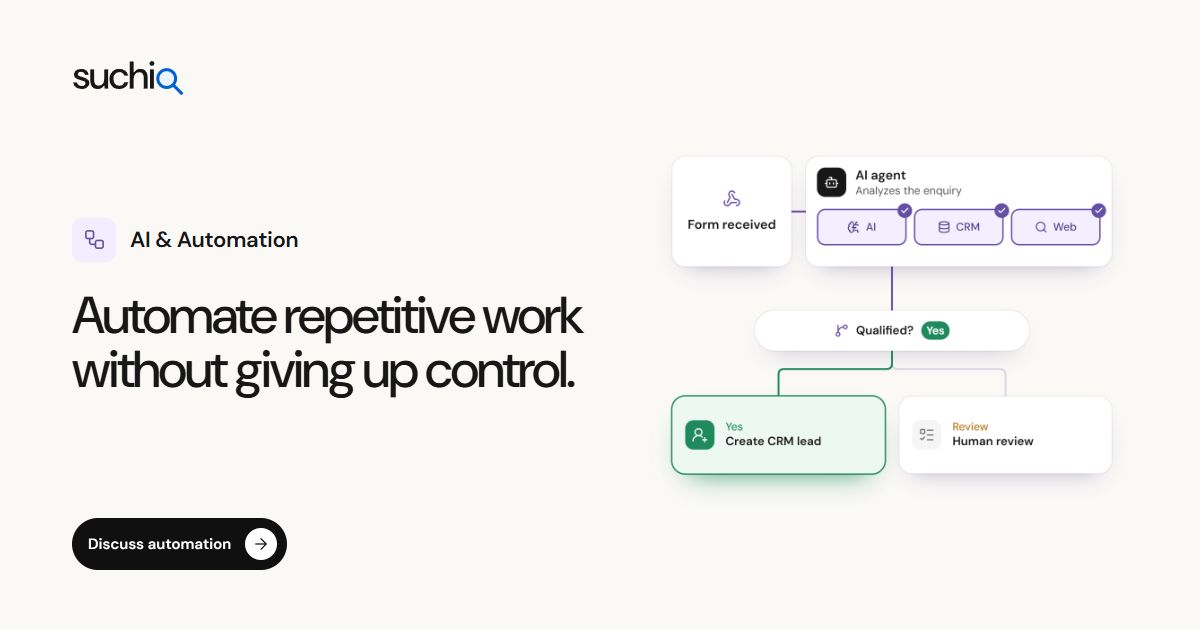
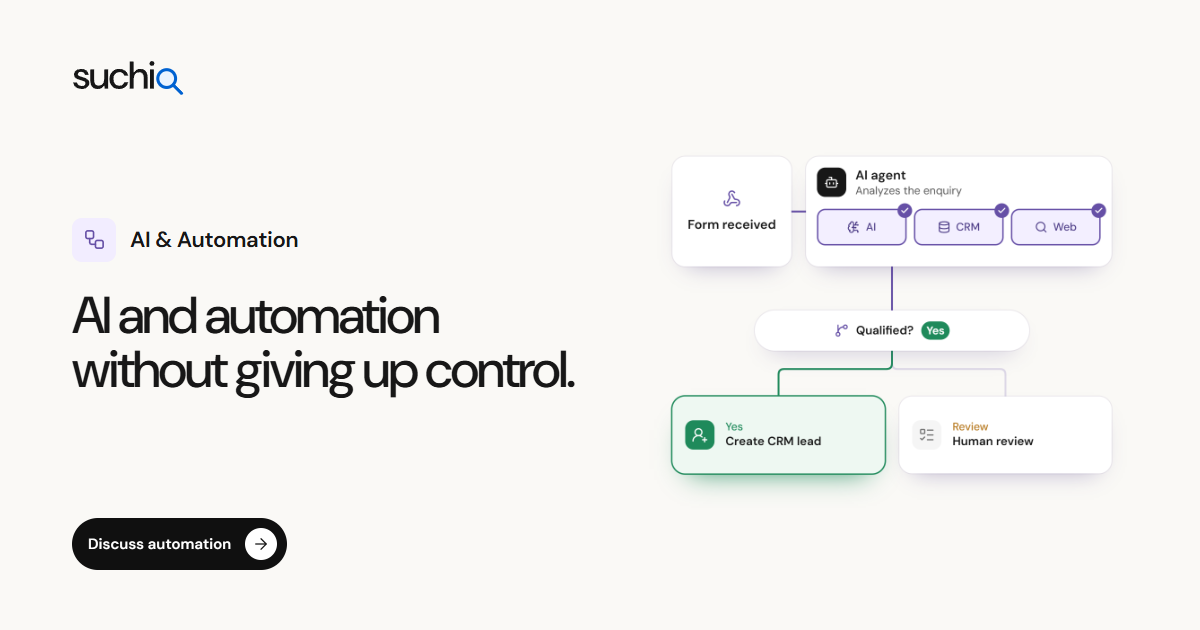
Put the search terms into service titles and headings
Titles now lead with the service and Frankfurt, which people search for far
more than Rhein-Main, without claiming an office there. The SEO, websites and
automation H1s name their service, and the service social cards follow them.

Changed region(s): [[0.0925, 0.4524, 0.4933, 0.5429]]

diff --git a/src/i18n/de/services.ts b/src/i18n/de/services.ts
@@ -17,10 +17,10 @@ const services: ServicesCopy = {
       ],
       cta: "Mehr zu Websites & Apps",
       page: {
-        metaTitle: "Webdesign Rhein-Main: Website erstellen lassen",
+        metaTitle: "Webdesign Frankfurt: Website erstellen lassen",
         metaDescription:
           "Website erstellen lassen in Hattersheim, Frankfurt und dem Rhein-Main-Gebiet. Suchio plant, gestaltet und entwickelt schnelle Websites, Onlineshops und Apps.",
-        title: "Websites, die schnell laden, Anfragen bringen und die du selbst pflegen kannst.",
+        title: "Website erstellen lassen, die schnell lädt und Anfragen bringt.",
         intro:
           "Wir erstellen Websites, Onlineshops und Apps für Betriebe im Rhein-Main-Gebiet und in ganz Deutschland. Vom ersten Entwurf bis zum Launch arbeitest du mit denselben Leuten.",
         outcomesHeading: "Was die fertige Website leisten muss",
@@ -179,10 +179,10 @@ const services: ServicesCopy = {
       ],
       cta: "Mehr zu SEO & KI-Sichtbarkeit",
       page: {
-        metaTitle: "SEO im Rhein-Main-Gebiet: Google & KI-Sichtbarkeit",
+        metaTitle: "SEO Frankfurt: Google- & KI-Sichtbarkeit",
         metaDescription:
           "SEO für Betriebe in Frankfurt und dem Rhein-Main-Gebiet: technisches SEO, Google-Unternehmensprofil, Inhalte und Sichtbarkeit in ChatGPT und KI-Antworten.",
-        title: "Bei Google und in KI-Antworten gefunden werden.",
+        title: "SEO, damit du bei Google und in KI-Antworten gefunden wirst.",
         intro:
           "Wir beheben technische Fehler, schreiben Inhalte zu echten Suchanfragen und pflegen dein Google-Unternehmensprofil. So finden dich Kunden in der normalen Suche, in Google Maps und in KI-Antworten.",
         outcomesHeading: "Was bessere Sichtbarkeit braucht",
@@ -347,7 +347,7 @@ const services: ServicesCopy = {
       ],
       cta: "Mehr zu Werbekampagnen",
       page: {
-        metaTitle: "Google Ads & Social Ads Betreuung im Rhein-Main-Gebiet",
+        metaTitle: "Google Ads & Social Ads für Frankfurt & Rhein-Main",
         metaDescription:
           "Google Ads und Social Ads für Betriebe im Rhein-Main-Gebiet: Kampagnenaufbau, Anzeigen, Landingpages und Tracking, damit aus Klicks Anfragen werden.",
         title: "Google Ads und Social Ads vom Klick bis zur Anfrage.",
@@ -517,10 +517,10 @@ const services: ServicesCopy = {
       ],
       cta: "Mehr zu KI & Automatisierung",
       page: {
-        metaTitle: "KI & Automatisierung für Betriebe und KMU",
+        metaTitle: "KI & Automatisierung für KMU im Raum Frankfurt",
         metaDescription:
           "KI und Automatisierung für Betriebe im Rhein-Main-Gebiet: Anfragen, E-Mails und Dokumente automatisch verarbeiten, Programme verbinden und Handarbeit sparen.",
-        title: "Wiederkehrende Arbeit automatisieren, ohne die Kontrolle abzugeben.",
+        title: "KI und Automatisierung, ohne die Kontrolle abzugeben.",
         intro:
           "Wir verbinden deine Programme, automatisieren wiederkehrende Aufgaben und setzen KI dort ein, wo sie deinem Team Arbeit abnimmt, etwa bei Anfragen, E-Mails und Dokumenten.",
         outcomesHeading: "Erst der Ablauf, dann das Werkzeug",

diff --git a/src/i18n/fr/services.ts b/src/i18n/fr/services.ts
@@ -20,7 +20,7 @@ const services: ServicesCopy = {
         metaTitle: "Création de site web, région de Francfort",
         metaDescription:
           "Création de sites web à Hattersheim, Francfort et en Rhin-Main. Suchio conçoit des sites rapides, des boutiques en ligne et des applications.",
-        title: "Des sites qui se chargent vite, apportent des demandes et que vous modifiez vous-même.",
+        title: "Création de site web : un site rapide qui apporte des demandes.",
         intro:
           "Nous créons des sites web, des boutiques en ligne et des applications pour les entreprises de la région Rhin-Main et de toute l’Allemagne. Du premier croquis au lancement, vous travaillez avec les mêmes personnes.",
         outcomesHeading: "Ce que le site final doit accomplir",
@@ -178,10 +178,10 @@ const services: ServicesCopy = {
       ],
       cta: "En savoir plus sur le SEO",
       page: {
-        metaTitle: "SEO région de Francfort : Google & visibilité IA",
+        metaTitle: "Référencement SEO près de Francfort",
         metaDescription:
           "SEO pour les entreprises de la région de Francfort : SEO technique, fiche Google, contenus et visibilité dans ChatGPT et les réponses IA.",
-        title: "Être trouvé sur Google et dans les réponses IA.",
+        title: "Le SEO pour être trouvé sur Google et dans les réponses IA.",
         intro:
           "Nous corrigeons les problèmes techniques, rédigeons des contenus pour de vraies recherches et entretenons votre fiche d’établissement Google. Vos clients vous trouvent ainsi dans la recherche classique, dans Google Maps et dans les réponses IA.",
         outcomesHeading: "Ce qu’exige une meilleure visibilité",
@@ -348,7 +348,7 @@ const services: ServicesCopy = {
       ],
       cta: "En savoir plus sur les campagnes",
       page: {
-        metaTitle: "Google Ads & réseaux sociaux, région de Francfort",
+        metaTitle: "Google Ads & publicité sociale, région de Francfort",
         metaDescription:
           "Google Ads et réseaux sociaux pour les entreprises de la région Rhin-Main : campagnes, annonces, pages de destination et suivi des demandes.",
         title: "Google Ads et réseaux sociaux, du clic à la demande.",
@@ -517,10 +517,10 @@ const services: ServicesCopy = {
       ],
       cta: "En savoir plus sur l’automatisation",
       page: {
-        metaTitle: "IA & automatisation pour les entreprises",
+        metaTitle: "IA & automatisation pour PME, région de Francfort",
         metaDescription:
           "IA et automatisation pour les entreprises de la région Rhin-Main : traiter demandes, e-mails et documents automatiquement et réduire le travail manuel.",
-        title: "Automatisez les tâches répétitives sans perdre le contrôle.",
+        title: "IA et automatisation, sans perdre le contrôle.",
         intro:
           "Nous relions vos outils, automatisons les tâches répétitives et utilisons l’IA là où elle soulage votre équipe, par exemple pour les demandes, les e-mails et les documents.",
         outcomesHeading: "D’abord le processus, ensuite l’outil",

diff --git a/src/i18n/en/services.ts b/src/i18n/en/services.ts
@@ -17,10 +17,10 @@ const services: ServicesCopy = {
       ],
       cta: "More on Websites & Apps",
       page: {
-        metaTitle: "Web Design in Frankfurt Rhine-Main",
+        metaTitle: "Web Design Frankfurt: Websites, Shops & Apps",
         metaDescription:
           "Web design in Hattersheim, Frankfurt, and the Rhine-Main area. Suchio plans, designs, and builds fast websites, online shops, and apps.",
-        title: "Websites that load fast, bring in enquiries, and that you can update yourself.",
+        title: "Get a website built that loads fast and brings in enquiries.",
         intro:
           "We build websites, online shops, and apps for businesses in the Frankfurt Rhine-Main area and across Germany. You work with the same people from the first draft through launch.",
         outcomesHeading: "What the finished website needs to do",
@@ -178,10 +178,10 @@ const services: ServicesCopy = {
       ],
       cta: "More on SEO & AI Visibility",
       page: {
-        metaTitle: "SEO in Frankfurt Rhine-Main: Google & AI Visibility",
+        metaTitle: "SEO Frankfurt: Google & AI Visibility",
         metaDescription:
           "SEO for businesses in Frankfurt and the Rhine-Main area: technical SEO, Google Business Profile, content, and visibility in ChatGPT and AI answers.",
-        title: "Get found on Google and in AI answers.",
+        title: "SEO that gets you found on Google and in AI answers.",
         intro:
           "We fix technical problems, write content for real search queries, and maintain your Google Business Profile. That way customers find you in regular search, in Google Maps, and in AI answers.",
         outcomesHeading: "What better visibility requires",
@@ -346,7 +346,7 @@ const services: ServicesCopy = {
       ],
       cta: "More on Paid Campaigns",
       page: {
-        metaTitle: "Google Ads & Social Ads Management, Frankfurt Rhine-Main",
+        metaTitle: "Google Ads & Social Ads Management, Frankfurt Area",
         metaDescription:
           "Google Ads and social ads for businesses in the Frankfurt Rhine-Main area: campaign setup, ads, landing pages, and tracking that turn clicks into enquiries.",
         title: "Google Ads and social ads from click to enquiry.",
@@ -510,10 +510,10 @@ const services: ServicesCopy = {
       ],
       cta: "More on AI & Automation",
       page: {
-        metaTitle: "AI & Automation for Local Businesses",
+        metaTitle: "AI & Automation for Businesses near Frankfurt",
         metaDescription:
           "AI and automation for businesses in the Frankfurt Rhine-Main area: process enquiries, emails, and documents automatically and save manual work.",
-        title: "Automate repetitive work without giving up control.",
+        title: "AI and automation without giving up control.",
         intro:
           "We connect your software, automate repetitive tasks, and use AI where it takes work off your team, for example with enquiries, emails, and documents.",
         outcomesHeading: "The workflow first, then the tool",

diff --git a/src/i18n/fr/messages.ts b/src/i18n/fr/messages.ts
@@ -11,10 +11,10 @@ const messages: Readonly<Record<MessageKey, string>> = {
   "nav.openMenu": "Ouvrir la navigation",
   "nav.closeMenu": "Fermer la navigation",
   "nav.selectLocale": "Choisir la langue",
-  "meta.siteTitle": "Suchio | Sites web, SEO & Google Ads, région de Francfort",
+  "meta.siteTitle": "Sites web, SEO & Google Ads, région de Francfort | Suchio",
   "meta.homeDescription":
     "Création de sites, SEO, Google Ads et automatisation depuis Hattersheim am Main, pour les entreprises de Francfort, de Rhin-Main et de toute l’Allemagne.",
-  "meta.aboutTitle": "À propos : studio indépendant à Hattersheim am Main",
+  "meta.aboutTitle": "À propos : studio web & SEO près de Francfort",
   "meta.contactTitle": "Contact : demander un projet",
   "meta.contactDescription":
     "Site web, SEO, Google Ads ou automatisation ? Décrivez brièvement votre projet, nous revenons vers vous avec notre avis et une première étape.",

diff --git a/src/i18n/en/messages.ts b/src/i18n/en/messages.ts
@@ -11,10 +11,10 @@ const messages: Readonly<Record<MessageKey, string>> = {
   "nav.openMenu": "Open navigation",
   "nav.closeMenu": "Close navigation",
   "nav.selectLocale": "Select language",
-  "meta.siteTitle": "Suchio | Web Design, SEO & Google Ads in Frankfurt Rhine-Main",
+  "meta.siteTitle": "Web Design, SEO & Google Ads near Frankfurt | Suchio",
   "meta.homeDescription":
     "Web design, SEO, Google Ads, and automation from Hattersheim am Main for businesses in Frankfurt, the Rhine-Main area, and across Germany.",
-  "meta.aboutTitle": "About us: an independent studio in Hattersheim am Main",
+  "meta.aboutTitle": "About us: web design & SEO studio near Frankfurt",
   "meta.contactTitle": "Contact: start a project",
   "meta.contactDescription":
     "Ask about a website, SEO, Google Ads, or automation. Briefly describe your project, and we will reply with our view and a first step.",

diff --git a/src/i18n/de/messages.ts b/src/i18n/de/messages.ts
@@ -9,10 +9,10 @@ const messages = {
   "nav.openMenu": "Navigation öffnen",
   "nav.closeMenu": "Navigation schließen",
   "nav.selectLocale": "Sprache auswählen",
-  "meta.siteTitle": "Suchio | Webdesign, SEO & Google Ads im Rhein-Main-Gebiet",
+  "meta.siteTitle": "Webdesign, SEO & Google Ads im Raum Frankfurt | Suchio",
   "meta.homeDescription":
     "Webdesign, SEO, Google Ads und Automatisierung aus Hattersheim am Main für Betriebe in Frankfurt, im Rhein-Main-Gebiet und in ganz Deutschland.",
-  "meta.aboutTitle": "Über uns: unabhängiges Studio in Hattersheim am Main",
+  "meta.aboutTitle": "Über uns: Webdesign- & SEO-Studio aus Hattersheim",
   "meta.contactTitle": "Kontakt: Projekt anfragen",
   "meta.contactDescription":
     "Website, SEO, Google Ads oder Automatisierung anfragen. Beschreib kurz dein Vorhaben, und wir melden uns mit einer Einschätzung und einem ersten Schritt.",
